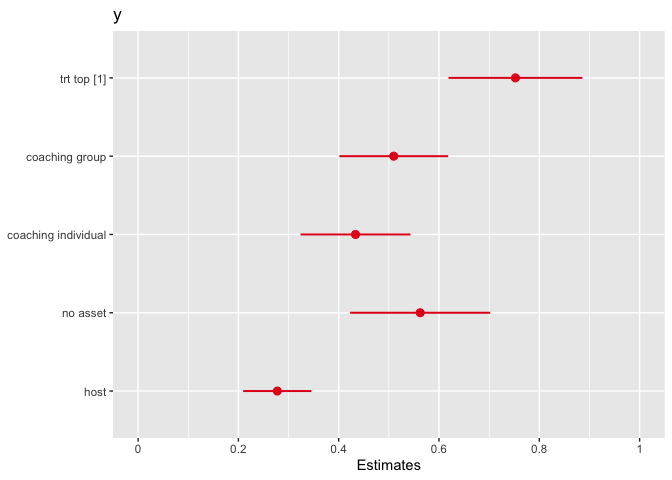
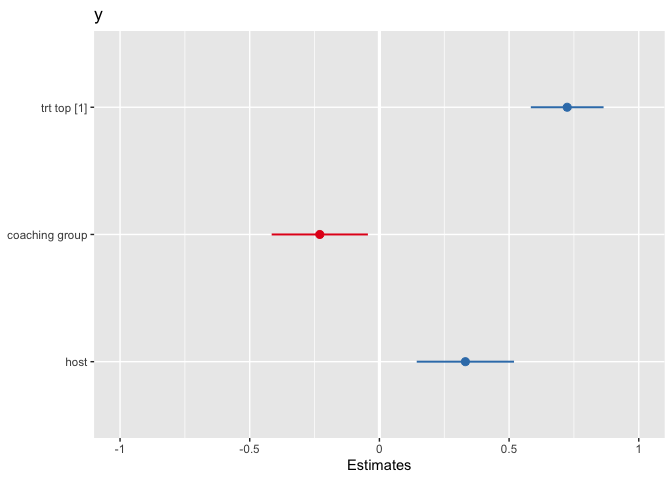
marginal

diff --git a/reports/sim.md b/reports/sim.md
@@ -946,18 +946,17 @@ I believe this is equivalent to `trt` below:
     left_join(coach_setting, by = c("coach" = "Level")) 
 ```
 
-We can use this to identify the most and least effective coaches and
-then qualitatively explore their records to generate some hypotheses
+We can use this to identify the most and least effective coaches (e.g.,
+coaches +/- 1 SD away from the population-level effect) and then
+qualitatively explore their program records to generate some hypotheses
 about why some coaches appear to have more impact on participants than
 others.
-
-For instance, we could identify the coaches in each setting who are +/-
-1 SD away from the population-level effect.
 
 ``` r
   coach_re_sd <- coach_re %>%
     group_by(host) %>%
-    mutate(trt_z = scale(trt)) %>%
+    mutate(trt_z = scale(trt),
+           trt_z = as.numeric(trt_z)) %>%
     ungroup() %>%
     mutate(trt_top = case_when(
       trt_z >= 1 ~ 1,
@@ -986,18 +985,18 @@ For instance, we could identify the coaches in each setting who are +/-
 ```
 
     ## # A tibble: 26 × 7
-    ##    coach    trt `(Intercept)` host    trt_z[,1] trt_top trt_bottom
-    ##    <chr>  <dbl>         <dbl> <fct>       <dbl>   <dbl>      <dbl>
-    ##  1 c_1170 0.195       -0.0285 Refugee      1.57       1          0
-    ##  2 c_1171 0.156       -0.0285 Refugee      1.26       1          0
-    ##  3 c_1174 0.153       -0.0285 Refugee      1.24       1          0
-    ##  4 c_1178 0.147       -0.0285 Refugee      1.19       1          0
-    ##  5 c_1179 0.270       -0.0285 Refugee      2.15       1          0
-    ##  6 c_1180 0.190       -0.0285 Refugee      1.53       1          0
-    ##  7 c_1185 0.166       -0.0285 Refugee      1.34       1          0
-    ##  8 c_1186 0.128       -0.0285 Refugee      1.04       1          0
-    ##  9 c_1204 0.240       -0.0285 Refugee      1.92       1          0
-    ## 10 c_1205 0.278       -0.0285 Refugee      2.22       1          0
+    ##    coach    trt `(Intercept)` host    trt_z trt_top trt_bottom
+    ##    <chr>  <dbl>         <dbl> <fct>   <dbl>   <dbl>      <dbl>
+    ##  1 c_1170 0.195       -0.0285 Refugee  1.57       1          0
+    ##  2 c_1171 0.156       -0.0285 Refugee  1.26       1          0
+    ##  3 c_1174 0.153       -0.0285 Refugee  1.24       1          0
+    ##  4 c_1178 0.147       -0.0285 Refugee  1.19       1          0
+    ##  5 c_1179 0.270       -0.0285 Refugee  2.15       1          0
+    ##  6 c_1180 0.190       -0.0285 Refugee  1.53       1          0
+    ##  7 c_1185 0.166       -0.0285 Refugee  1.34       1          0
+    ##  8 c_1186 0.128       -0.0285 Refugee  1.04       1          0
+    ##  9 c_1204 0.240       -0.0285 Refugee  1.92       1          0
+    ## 10 c_1205 0.278       -0.0285 Refugee  2.22       1          0
     ## # … with 16 more rows
 
 ``` r
@@ -1006,22 +1005,19 @@ For instance, we could identify the coaches in each setting who are +/-
 ```
 
     ## # A tibble: 31 × 7
-    ##    coach     trt `(Intercept)` host    trt_z[,1] trt_top trt_bottom
-    ##    <chr>   <dbl>         <dbl> <fct>       <dbl>   <dbl>      <dbl>
-    ##  1 c_1152 -0.182       -0.0285 Refugee     -1.39       0          1
-    ##  2 c_1153 -0.137       -0.0285 Refugee     -1.04       0          1
-    ##  3 c_1157 -0.283       -0.0285 Refugee     -2.19       0          1
-    ##  4 c_1168 -0.223       -0.0285 Refugee     -1.72       0          1
-    ##  5 c_1183 -0.180       -0.0285 Refugee     -1.37       0          1
-    ##  6 c_1199 -0.365       -0.0285 Refugee     -2.83       0          1
-    ##  7 c_1201 -0.144       -0.0285 Refugee     -1.10       0          1
-    ##  8 c_1203 -0.249       -0.0285 Refugee     -1.92       0          1
-    ##  9 c_1207 -0.176       -0.0285 Refugee     -1.35       0          1
-    ## 10 c_1208 -0.144       -0.0285 Refugee     -1.09       0          1
+    ##    coach     trt `(Intercept)` host    trt_z trt_top trt_bottom
+    ##    <chr>   <dbl>         <dbl> <fct>   <dbl>   <dbl>      <dbl>
+    ##  1 c_1152 -0.182       -0.0285 Refugee -1.39       0          1
+    ##  2 c_1153 -0.137       -0.0285 Refugee -1.04       0          1
+    ##  3 c_1157 -0.283       -0.0285 Refugee -2.19       0          1
+    ##  4 c_1168 -0.223       -0.0285 Refugee -1.72       0          1
+    ##  5 c_1183 -0.180       -0.0285 Refugee -1.37       0          1
+    ##  6 c_1199 -0.365       -0.0285 Refugee -2.83       0          1
+    ##  7 c_1201 -0.144       -0.0285 Refugee -1.10       0          1
+    ##  8 c_1203 -0.249       -0.0285 Refugee -1.92       0          1
+    ##  9 c_1207 -0.176       -0.0285 Refugee -1.35       0          1
+    ## 10 c_1208 -0.144       -0.0285 Refugee -1.09       0          1
     ## # … with 21 more rows
-
-We could then look qualitatively at each top/bottom coach’s case records
-to generate ideas about what makes someone a top or bottom coach.
 
 In addition, we could incorporate an indicator for being a top coach
 into the model and estimate the impact of having a top coach. \[Coaches
@@ -1042,13 +1038,13 @@ extent.\]
   
   m1_top <- lmer(y ~ trt_top +
                      coaching_group + 
-                     coaching_individual + 
-                     no_asset + 
                      host + 
                      (1 | village) + 
-                     (0 + trt | coach) + 
-                     (0 + trt | group), 
-                data=df %>% mutate(trt_top = factor(trt_top)))
+                     (1 | coach:group), 
+                data = df %>% 
+                         mutate(trt_top = factor(trt_top)) %>% 
+                         filter(trt==1)
+                )
   
   tab_model(m1_top)
 ```
@@ -1081,13 +1077,13 @@ p
 (Intercept)
 </td>
 <td style=" padding:0.2cm; text-align:left; vertical-align:top; text-align:center;  ">
--0.02
+0.69
 </td>
 <td style=" padding:0.2cm; text-align:left; vertical-align:top; text-align:center;  ">
--0.07 – 0.04
+0.54 – 0.83
 </td>
 <td style=" padding:0.2cm; text-align:left; vertical-align:top; text-align:center;  ">
-0.530
+<strong>\<0.001</strong>
 </td>
 </tr>
 <tr>
@@ -1095,10 +1091,10 @@ p
 trt top \[1\]
 </td>
 <td style=" padding:0.2cm; text-align:left; vertical-align:top; text-align:center;  ">
-0.75
+0.72
 </td>
 <td style=" padding:0.2cm; text-align:left; vertical-align:top; text-align:center;  ">
-0.62 – 0.89
+0.58 – 0.86
 </td>
 <td style=" padding:0.2cm; text-align:left; vertical-align:top; text-align:center;  ">
 <strong>\<0.001</strong>
@@ -1109,41 +1105,13 @@ trt top \[1\]
 coaching group
 </td>
 <td style=" padding:0.2cm; text-align:left; vertical-align:top; text-align:center;  ">
-0.51
+-0.23
 </td>
 <td style=" padding:0.2cm; text-align:left; vertical-align:top; text-align:center;  ">
-0.40 – 0.62
+-0.42 – -0.04
 </td>
 <td style=" padding:0.2cm; text-align:left; vertical-align:top; text-align:center;  ">
-<strong>\<0.001</strong>
-</td>
-</tr>
-<tr>
-<td style=" padding:0.2cm; text-align:left; vertical-align:top; text-align:left; ">
-coaching individual
-</td>
-<td style=" padding:0.2cm; text-align:left; vertical-align:top; text-align:center;  ">
-0.43
-</td>
-<td style=" padding:0.2cm; text-align:left; vertical-align:top; text-align:center;  ">
-0.32 – 0.54
-</td>
-<td style=" padding:0.2cm; text-align:left; vertical-align:top; text-align:center;  ">
-<strong>\<0.001</strong>
-</td>
-</tr>
-<tr>
-<td style=" padding:0.2cm; text-align:left; vertical-align:top; text-align:left; ">
-no asset
-</td>
-<td style=" padding:0.2cm; text-align:left; vertical-align:top; text-align:center;  ">
-0.56
-</td>
-<td style=" padding:0.2cm; text-align:left; vertical-align:top; text-align:center;  ">
-0.42 – 0.70
-</td>
-<td style=" padding:0.2cm; text-align:left; vertical-align:top; text-align:center;  ">
-<strong>\<0.001</strong>
+<strong>0.015</strong>
 </td>
 </tr>
 <tr>
@@ -1151,13 +1119,13 @@ no asset
 host
 </td>
 <td style=" padding:0.2cm; text-align:left; vertical-align:top; text-align:center;  ">
-0.28
+0.33
 </td>
 <td style=" padding:0.2cm; text-align:left; vertical-align:top; text-align:center;  ">
-0.21 – 0.35
+0.14 – 0.52
 </td>
 <td style=" padding:0.2cm; text-align:left; vertical-align:top; text-align:center;  ">
-<strong>\<0.001</strong>
+<strong>0.001</strong>
 </td>
 </tr>
 <tr>
@@ -1170,70 +1138,56 @@ Random Effects
 σ<sup>2</sup>
 </td>
 <td style=" padding:0.2cm; text-align:left; vertical-align:top; padding-top:0.1cm; padding-bottom:0.1cm; text-align:left;" colspan="3">
-0.81
+0.80
 </td>
 <tr>
 <td style=" padding:0.2cm; text-align:left; vertical-align:top; text-align:left; padding-top:0.1cm; padding-bottom:0.1cm;">
-τ<sub>00</sub> <sub>village</sub>
-</td>
-<td style=" padding:0.2cm; text-align:left; vertical-align:top; padding-top:0.1cm; padding-bottom:0.1cm; text-align:left;" colspan="3">
-0.02
-</td>
-<tr>
-<td style=" padding:0.2cm; text-align:left; vertical-align:top; text-align:left; padding-top:0.1cm; padding-bottom:0.1cm;">
-τ<sub>11</sub> <sub>group.trt</sub>
+τ<sub>00</sub> <sub>coach:group</sub>
 </td>
 <td style=" padding:0.2cm; text-align:left; vertical-align:top; padding-top:0.1cm; padding-bottom:0.1cm; text-align:left;" colspan="3">
 0.08
 </td>
 <tr>
 <td style=" padding:0.2cm; text-align:left; vertical-align:top; text-align:left; padding-top:0.1cm; padding-bottom:0.1cm;">
-τ<sub>11</sub> <sub>coach.trt</sub>
+τ<sub>00</sub> <sub>village</sub>
 </td>
 <td style=" padding:0.2cm; text-align:left; vertical-align:top; padding-top:0.1cm; padding-bottom:0.1cm; text-align:left;" colspan="3">
-0.00
+0.08
 </td>
 <tr>
 <td style=" padding:0.2cm; text-align:left; vertical-align:top; text-align:left; padding-top:0.1cm; padding-bottom:0.1cm;">
-ρ<sub>01</sub>
+ICC
 </td>
 <td style=" padding:0.2cm; text-align:left; vertical-align:top; padding-top:0.1cm; padding-bottom:0.1cm; text-align:left;" colspan="3">
- 
-</td>
-<tr>
-<td style=" padding:0.2cm; text-align:left; vertical-align:top; text-align:left; padding-top:0.1cm; padding-bottom:0.1cm;">
-ρ<sub>01</sub>
-</td>
-<td style=" padding:0.2cm; text-align:left; vertical-align:top; padding-top:0.1cm; padding-bottom:0.1cm; text-align:left;" colspan="3">
- 
+0.17
 </td>
 <tr>
 <td style=" padding:0.2cm; text-align:left; vertical-align:top; text-align:left; padding-top:0.1cm; padding-bottom:0.1cm;">
 N <sub>village</sub>
 </td>
 <td style=" padding:0.2cm; text-align:left; vertical-align:top; padding-top:0.1cm; padding-bottom:0.1cm; text-align:left;" colspan="3">
-114
+43
 </td>
 <tr>
 <td style=" padding:0.2cm; text-align:left; vertical-align:top; text-align:left; padding-top:0.1cm; padding-bottom:0.1cm;">
 N <sub>coach</sub>
 </td>
 <td style=" padding:0.2cm; text-align:left; vertical-align:top; padding-top:0.1cm; padding-bottom:0.1cm; text-align:left;" colspan="3">
-4653
+198
 </td>
 <tr>
 <td style=" padding:0.2cm; text-align:left; vertical-align:top; text-align:left; padding-top:0.1cm; padding-bottom:0.1cm;">
 N <sub>group</sub>
 </td>
 <td style=" padding:0.2cm; text-align:left; vertical-align:top; padding-top:0.1cm; padding-bottom:0.1cm; text-align:left;" colspan="3">
-4710
+255
 </td>
 <tr>
 <td style=" padding:0.2cm; text-align:left; vertical-align:top; text-align:left; padding-top:0.1cm; padding-bottom:0.1cm; border-top:1px solid;">
 Observations
 </td>
 <td style=" padding:0.2cm; text-align:left; vertical-align:top; padding-top:0.1cm; padding-bottom:0.1cm; text-align:left; border-top:1px solid;" colspan="3">
-10830
+6375
 </td>
 </tr>
 <tr>
@@ -1241,7 +1195,7 @@ Observations
 Marginal R<sup>2</sup> / Conditional R<sup>2</sup>
 </td>
 <td style=" padding:0.2cm; text-align:left; vertical-align:top; padding-top:0.1cm; padding-bottom:0.1cm; text-align:left;" colspan="3">
-0.216 / NA
+0.088 / 0.241
 </td>
 </tr>
 </table>
@@ -1252,33 +1206,40 @@ Marginal R<sup>2</sup> / Conditional R<sup>2</sup>
 
 ![](sim_files/figure-gfm/unnamed-chunk-13-1.png)<!-- -->
 
+Estimated marginal means for clients of top coaches
+
 ``` r
-  m1_top_p <- ggeffects::ggpredict(m1_top, "trt_top")
+  m1_top_p <- ggeffects::ggpredict(m1_top, "trt_top", type="random")
   m1_top_p
 ```
 
     ## # Predicted values of y
     ## 
-    ## trt_top | Predicted |       95% CI
-    ## ----------------------------------
-    ## 0       |      0.50 | [0.46, 0.54]
-    ## 1       |      1.25 | [1.12, 1.38]
+    ## trt_top | Predicted |        95% CI
+    ## -----------------------------------
+    ## 0       |      0.77 | [-0.99, 2.53]
+    ## 1       |      1.50 | [-0.27, 3.26]
     ## 
     ## Adjusted for:
-    ## *      coaching_group = 0.20
-    ## * coaching_individual = 0.39
-    ## *            no_asset = 0.20
-    ## *                host = 0.49
-    ## *                 trt = 0.59
-    ## *             village = 0 (population-level)
-    ## *               coach = 0 (population-level)
-    ## *               group = 0 (population-level)
+    ## * coaching_group = 0.33
+    ## *           host = 0.49
+    ## *        village = 0 (population-level)
+    ## *          coach = 0 (population-level)
+    ## *          group = 0 (population-level)
 
 ``` r
   plot(m1_top_p)
 ```
 
-![](sim_files/figure-gfm/unnamed-chunk-13-2.png)<!-- -->
+![](sim_files/figure-gfm/unnamed-chunk-14-1.png)<!-- -->
+
+from the function help:
+
+> type = “random” still returns population-level predictions, however,
+> unlike type = “fixed”, intervals also consider the uncertainty in the
+> variance parameters (the mean random effect variance, see Johnson et
+> al. 2014 for details) and hence can be considered as prediction
+> intervals.
 
 # To Do
 
